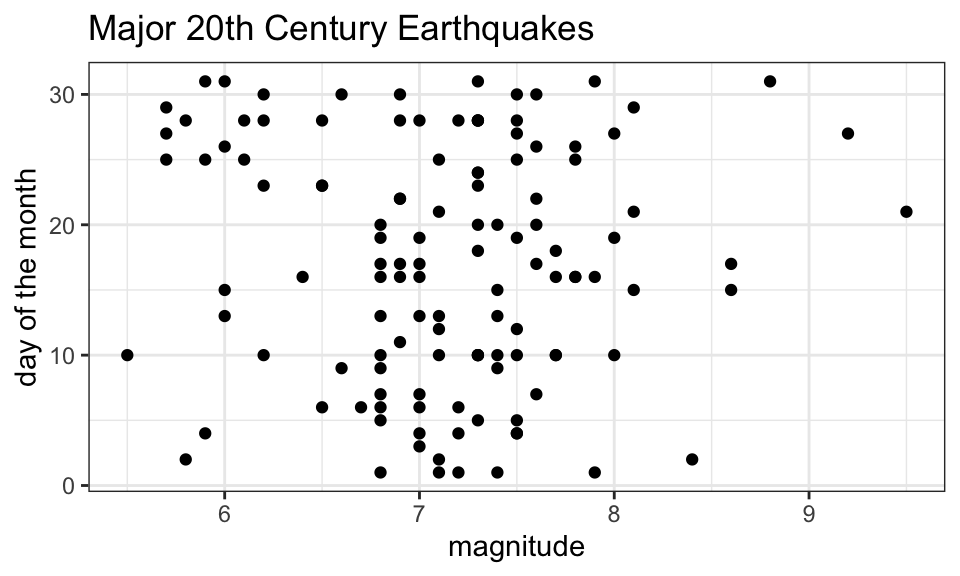
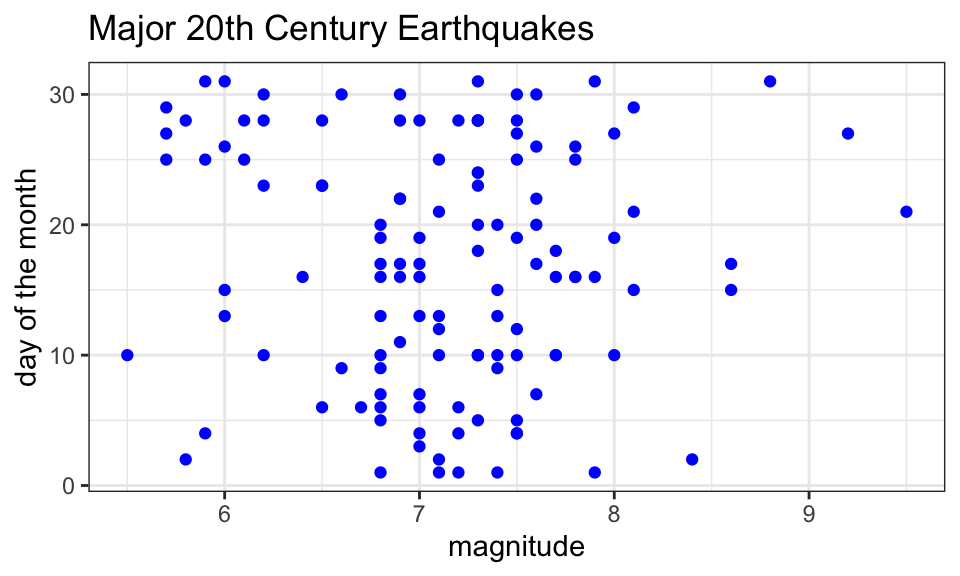
typos in dataviz

diff --git a/dataviz.html b/dataviz.html
@@ -390,9 +390,17 @@ div.tocify {
 </div>
 
 
+<div id="introduction" class="section level1">
+<h1>Introduction</h1>
 <p>We can produce graphics in base R, as demonstrated in the <a href="basicstats.html#Basic_data_visualization">data and descriptive statistics page</a>.</p>
 <p>We can also produce superb graphics using the powerful package <em>ggplot2</em>.</p>
-<p>In this tutorial we focus on producing three types of graphics with ggplot2: histograms, scatter plots, and box plots.</p>
+<p>In this tutorial we focus on producing these types of graphics with ggplot2:</p>
+<ol style="list-style-type: decimal">
+<li>histograms</li>
+<li>scatter plots</li>
+<li>box plots, and</li>
+<li>bar plots</li>
+</ol>
 <p><strong>I encourage you to replicate all the graphs in this tutorial in your own RStudio session.</strong></p>
 <p>The <em>ggplot2</em> package is part of the <em>tidyverse</em> package, so begin your session by loading the tidyverse. Recall, do do this, run the line</p>
 <pre><code>library(tidyverse)</code></pre>
@@ -402,7 +410,7 @@ div.tocify {
 <pre class="r"><code>df &lt;- earthquakes</code></pre>
 <p>Alternatively, you can load the data set into your session directly from its url:</p>
 <pre class="r"><code>df &lt;- read.csv(&quot;https://www.openintro.org/data/csv/earthquakes.csv&quot;)</code></pre>
-<p>Let’s check the first few rows</p>
+<p>Here are the first three rows of the data frame</p>
 <pre class="r"><code>head(df,3)</code></pre>
 <pre><code>## # A tibble: 3 × 7
 ##    year month      day richter area                        region    deaths
@@ -410,9 +418,8 @@ div.tocify {
 ## 1  1902 April       19     7.5 Quezaltenango and San Marco Guatemala   2000
 ## 2  1902 December    16     6.4 Uzbekistan                  Russia      4700
 ## 3  1903 April       28     7   Malazgirt                   Turkey      3500</code></pre>
-<p><strong>Note</strong> Plotting data with ggplot requires the data to be within a data frame. ggplot will not work on a vector.</p>
 <blockquote>
-<p>The key to using ggplot: Begin with the <code>ggplot()</code>, and follow that with <em>layers</em> describing the plot(s) and features of the plot(s).</p>
+<p>The key to using ggplot: A plot begins with the <code>ggplot()</code> command, which is followed by <strong>layers</strong> describing the plot(s) and features of the plot(s).</p>
 </blockquote>
 <p><strong>Example 1</strong>: A histogram of all magnitudes (on the <code>richter</code> scale):</p>
 <pre class="r"><code>ggplot(data=df)+
@@ -422,7 +429,8 @@ div.tocify {
 <p><img src="dataviz_files/figure-html/unnamed-chunk-4-1.png" width="576" /></p>
 <p><strong>Notes on code</strong>:</p>
 <ol style="list-style-type: decimal">
-<li>The first line says we’re going to make a ggplot using the <code>df</code> data frame. Three layers follow this initial line</li>
+<li>The first line says we’re going to make a ggplot using the <code>df</code> data frame. Three layers follow this initial line.<br />
+</li>
 <li>The first layer specifies that we plot a histogram of the variable <code>richter</code>, and adds color to the bars, along with how many bins to make.</li>
 <li>The second layer provides a plot title</li>
 <li>The third layer provides an x-axis label.</li>
@@ -431,7 +439,9 @@ div.tocify {
 <ol style="list-style-type: decimal">
 <li><p>We specify variables involved in a plot within the <code>aes()</code> command, <code>aes</code> being short for <em>aesthetic</em>. The dots and lines in plots have certain locations, colors, shapes, and sizes. In ggplot, these features are called <em>aesthetics</em>.</p></li>
 <li><p>Add that <code>+</code> sign at the end of a line if you plan to add another layer.</p></li>
+<li><p>Plotting data with ggplot requires the data to be within a data frame.</p></li>
 </ol>
+</div>
 <div id="histograms-with-ggplot" class="section level1">
 <h1>Histograms with ggplot</h1>
 <blockquote>
@@ -517,13 +527,18 @@ div.tocify {
 <div id="add-color-and-axis-labels-1" class="section level2">
 <h2>Add color and axis labels</h2>
 <pre class="r"><code>ggplot(data = df) +
-  geom_point(aes(x=richter,y=day))+
+  geom_point(aes(x=richter,y=day),col=&quot;blue&quot;)+
   xlab(&quot;magnitude&quot;) + 
   ylab(&quot;day of the month&quot;) +
   ggtitle(&quot;Major 20th Century Earthquakes&quot;) + 
   theme_bw()</code></pre>
 <p><img src="dataviz_files/figure-html/unnamed-chunk-14-1.png" width="480" /></p>
-<p><strong>Note</strong>: R has lots (657) of built-in color names. You can see the names in RStudio if you run <code>colors()</code>.</p>
+<p><strong>Notes</strong>:</p>
+<ol style="list-style-type: decimal">
+<li>In this plot we specify the color (“blue”) outside the aesthetic. This if fine if we want a single color for all the points. If we want the color of a point to depend on some categorical variable, as in the plot below, we specify that inside <code>aes()</code>.<br />
+</li>
+<li>R has lots (657) of built-in color names. You can see the names in RStudio if you run <code>colors()</code>.</li>
+</ol>
 </div>
 <div id="add-color-by-category" class="section level2">
 <h2>Add color by category</h2>
@@ -595,12 +610,11 @@ The gray bar of varying thickness surrounding the least squares regression line 
   geom_boxplot(aes(x=richter)) +
   geom_jitter(aes(x=richter,y=0),col=&quot;seagreen&quot;,height=.1,size=1.2)+
   xlab(&quot;Magnitude&quot;) +
-  ylab(&quot;&quot;)</code></pre>
-<p><img src="dataviz_files/figure-html/unnamed-chunk-21-1.png" width="672" /></p>
-<pre class="r"><code>  ggtitle(&quot;Major 20th century earthquakes&quot;)+
+  ylab(&quot;&quot;)+
+  ggtitle(&quot;Major 20th century earthquakes&quot;)+
   theme(axis.ticks.y = element_blank(),
         axis.text.y = element_blank())</code></pre>
-<pre><code>## NULL</code></pre>
+<p><img src="dataviz_files/figure-html/unnamed-chunk-21-1.png" width="672" /></p>
 <p><strong>Note</strong>: The <code>geom_jitter()</code> command is the same as the <code>geom_point()</code> with the exception that the computer randomly moves the points a tiny bit(a little “jitter”). This feature is a nice way to see multiple points that might otherwise be stacked right on top of one another. The <code>height=.1</code> option means I’m letting the y-coordinate of the point (the height) vary plus or minus .1 units from its actual value.</p>
 </div>
 <div id="side-by-side-box-plots" class="section level2">
@@ -647,8 +661,8 @@ ggplot(data = df) +
 <p><img src="dataviz_files/figure-html/unnamed-chunk-25-1.png" width="576" /></p>
 </div>
 </div>
-<div id="bonus-plot---bar-plot-for-categorical-variable" class="section level1">
-<h1>Bonus plot - bar plot for categorical variable</h1>
+<div id="bar-plot-for-a-categorical-variable" class="section level1">
+<h1>Bar plot for a categorical variable</h1>
 <p>In Base R we can visualize the frequencies for a categorical variable as follows:</p>
 <pre class="r"><code>barplot(table(df$month))</code></pre>
 <p><img src="dataviz_files/figure-html/unnamed-chunk-26-1.png" width="576" /></p>
@@ -656,7 +670,7 @@ ggplot(data = df) +
 <pre class="r"><code>ggplot(data=df,aes(x=month))+
   geom_bar(stat=&quot;count&quot;)</code></pre>
 <p><img src="dataviz_files/figure-html/unnamed-chunk-27-1.png" width="576" /></p>
-<p><strong>Note</strong> We can specify colors manually, change bar width, add labels, and even rotate them so they look less crowded. We can also specify the limits of the values on the y-axis to be, say, 0 to 20:</p>
+<p><strong>Note</strong>: We can specify colors manually, change bar width, add labels, and even rotate them so they look less crowded. We can also specify the limits of the values on the y-axis to be, say, 0 to 20:</p>
 <pre class="r"><code>colors=c(&quot;wheat&quot;,&quot;steelblue&quot;,&quot;tomato&quot;,&quot;seagreen&quot;,&quot;yellow&quot;,&quot;purple&quot;,
          &quot;pink&quot;,&quot;orange&quot;,&quot;brown3&quot;,&quot;dodgerblue&quot;,&quot;gray&quot;,&quot;darkblue&quot;)
 ggplot(data=df,aes(x=month))+
